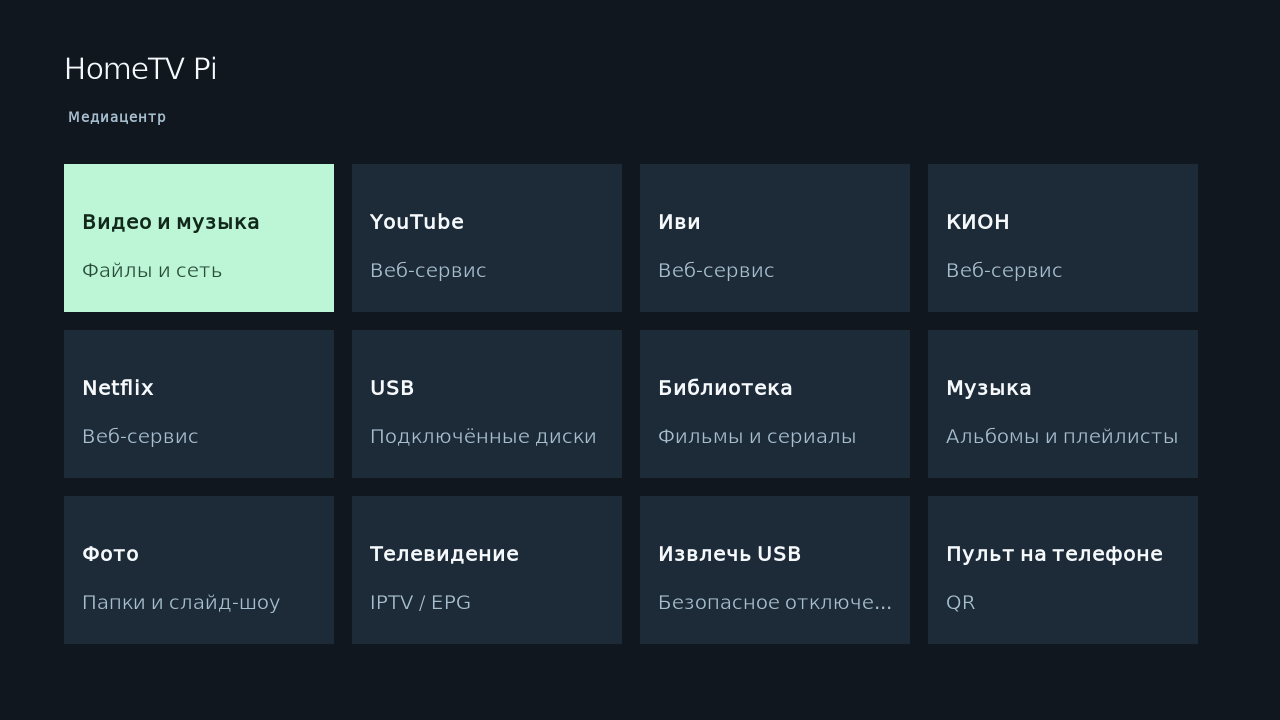
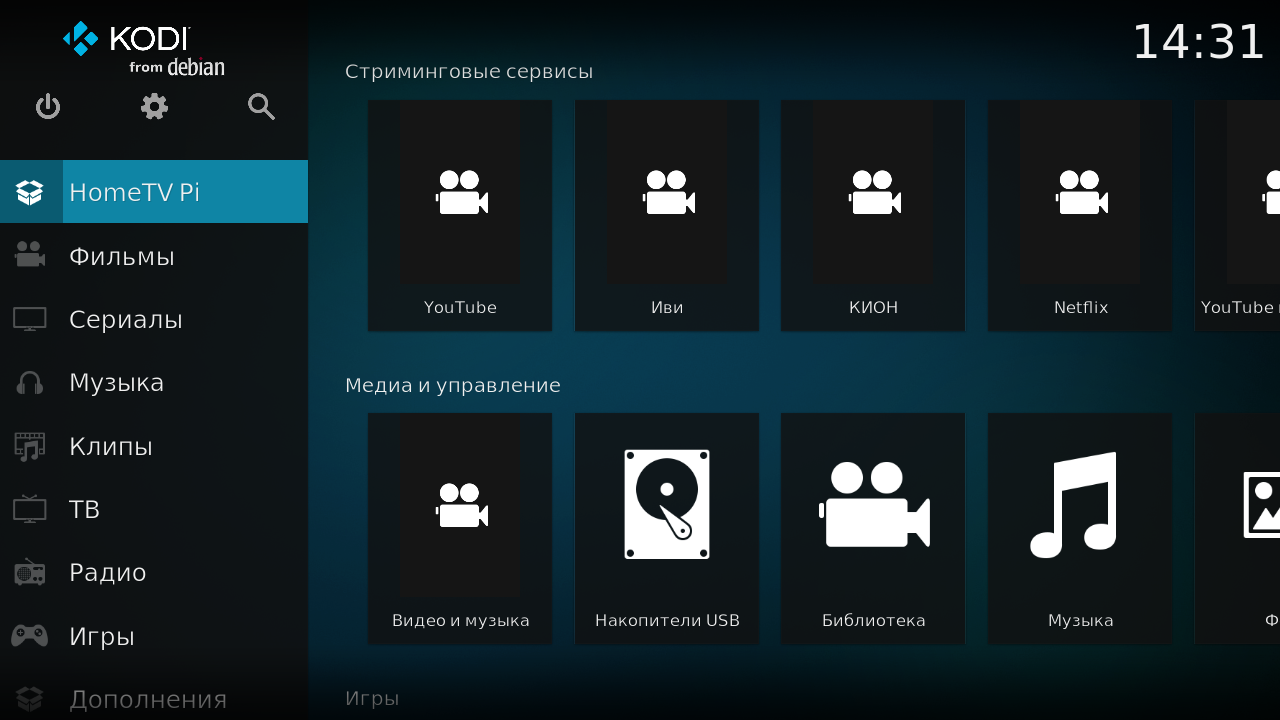
Record native Estuary, Wayland games and SSH provisioning checks

diff --git a/docs/test-report.md b/docs/test-report.md
@@ -63,3 +63,9 @@ findmnt --target /data
 systemctl is-active home-tv-kodi.service home-tv-state.service
 sudo vcgencmd get_throttled
 ```
+
+## Изменения 0.2.0
+
+- В Kodi на виртуальном экране Linux проверено штатное меню Estuary с виджетами HomeTV Pi. Выбор плитки YouTube с клавиатуры передал менеджеру сессий команду `open youtube-tv`. Воспроизведение в этом сценарии заменялось имитацией.
+- Пять головоломок и LBreakoutHD открыли окна Wayland в Cage на Debian Trixie x86. Проверены запуск через обёртку и обработка команд возврата на программной подмене ввода. Оценка FPS и управление аппаратным пультом **[НЕ ПРОВЕРЕНО НА УСТРОЙСТВЕ]**.
+- Подготовка SSH проверена с настоящим публичным ключом OpenSSH Ed25519. Автотесты подтвердили выключенное состояние без ключа, отказ на ключ с посторонними параметрами, смену ключа через загрузочный раздел и запрет его перезаписи через панель. Конфигурация sudo прошла `visudo -c`.
